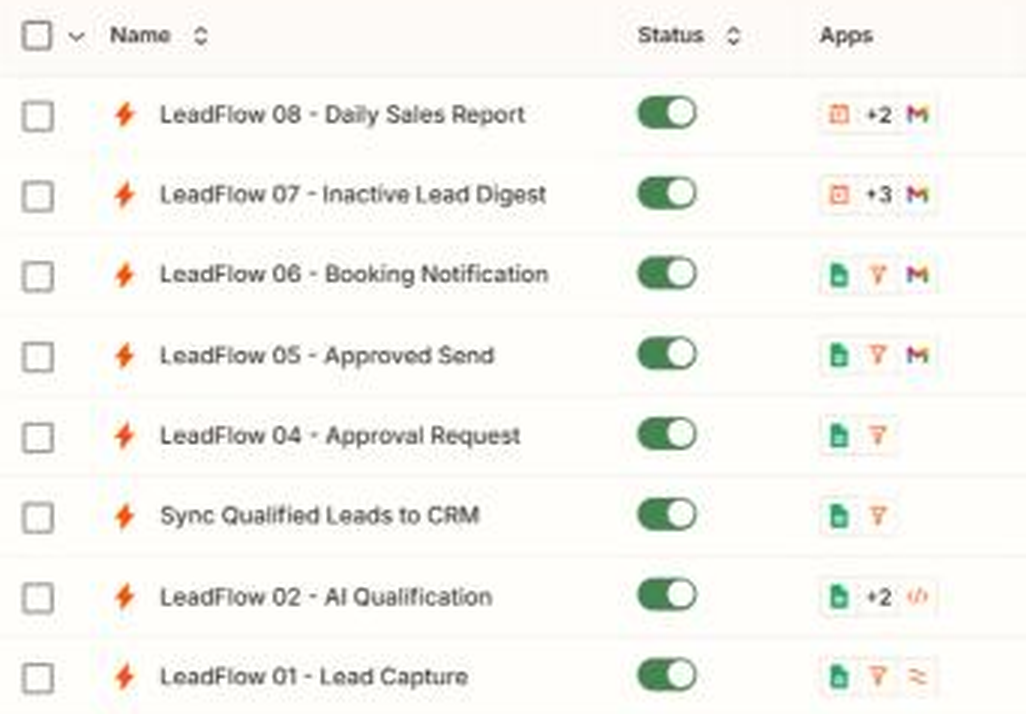
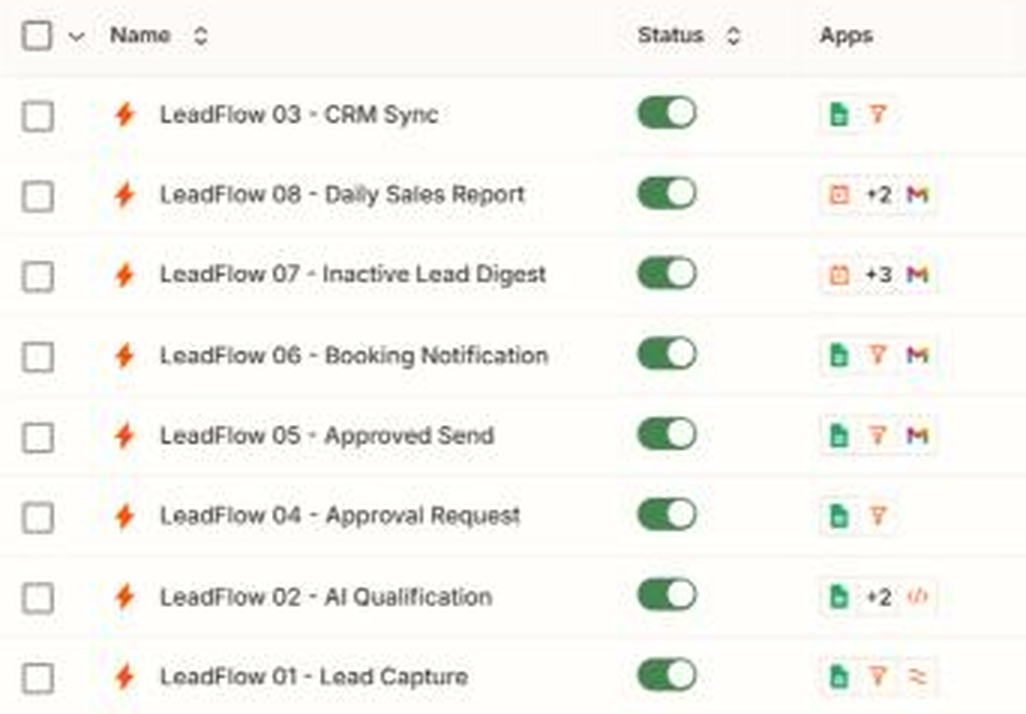
Rename Zap 3 to LeadFlow 03 - CRM Sync; refresh Zap list screenshot
Claude-Session: https://claude.ai/code/session_015tgHgxw2vFbeSXmyKskLv1

diff --git a/docs/zaps/03-crm-sync.md b/docs/zaps/03-crm-sync.md
@@ -1,6 +1,6 @@
 # Zap 3: CRM create/update (Google Sheet CRM)
 
-**Status:** Published in Zapier as "Sync Qualified Leads to CRM". Step-tested on 2026-11-23 with "Sara Demo Buyer", then run live end to end with a new synthetic lead ("Test CRM Sync") and an update re-run; see TC-16.
+**Status:** Published in Zapier as "LeadFlow 03 - CRM Sync" (renamed 2026-11-24 from "Sync Qualified Leads to CRM"; no step changes). Step-tested on 2026-11-23 with "Sara Demo Buyer", then run live end to end with a new synthetic lead ("Test CRM Sync") and an update re-run; see TC-16.
 
 **Why a Google Sheet CRM:** the demo needs no external account. A HubSpot version would need a HubSpot account connected in Zapier. HubSpot's free CRM tier exists, but compatibility with the user's Zapier plan was not verified.
 
